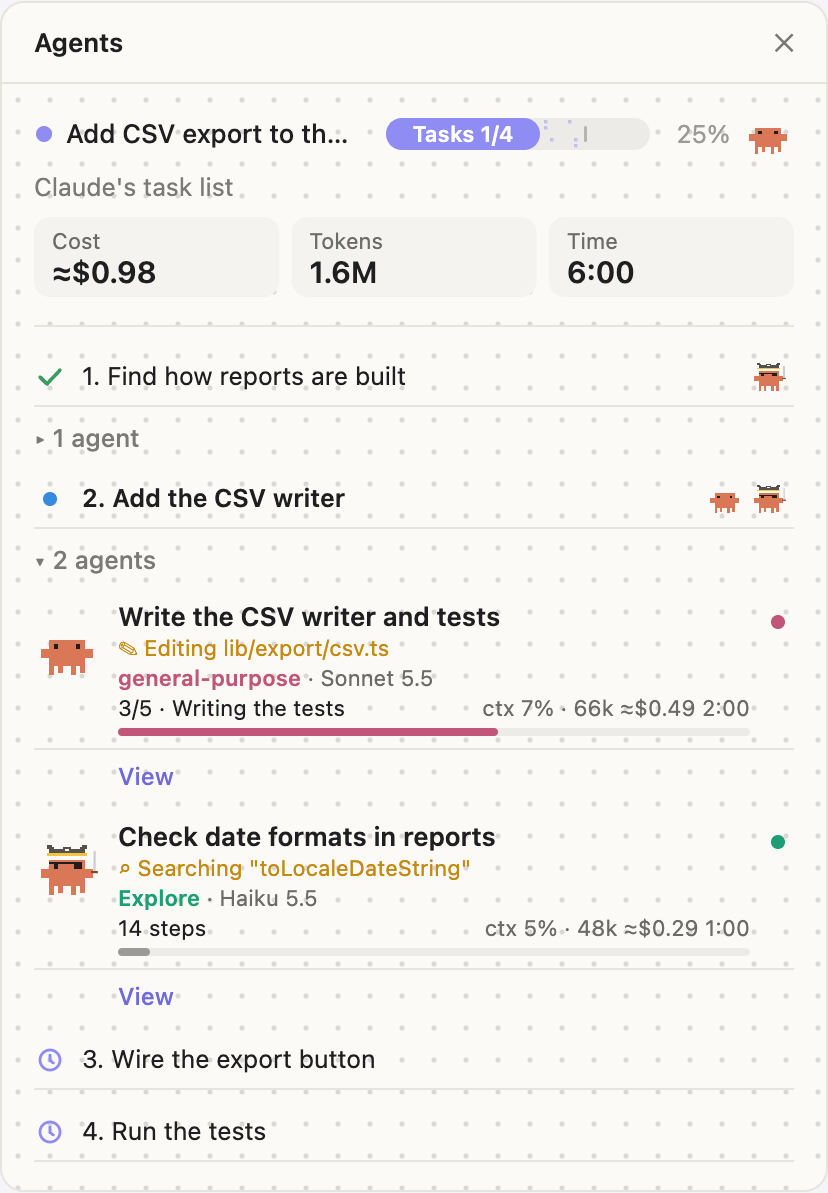
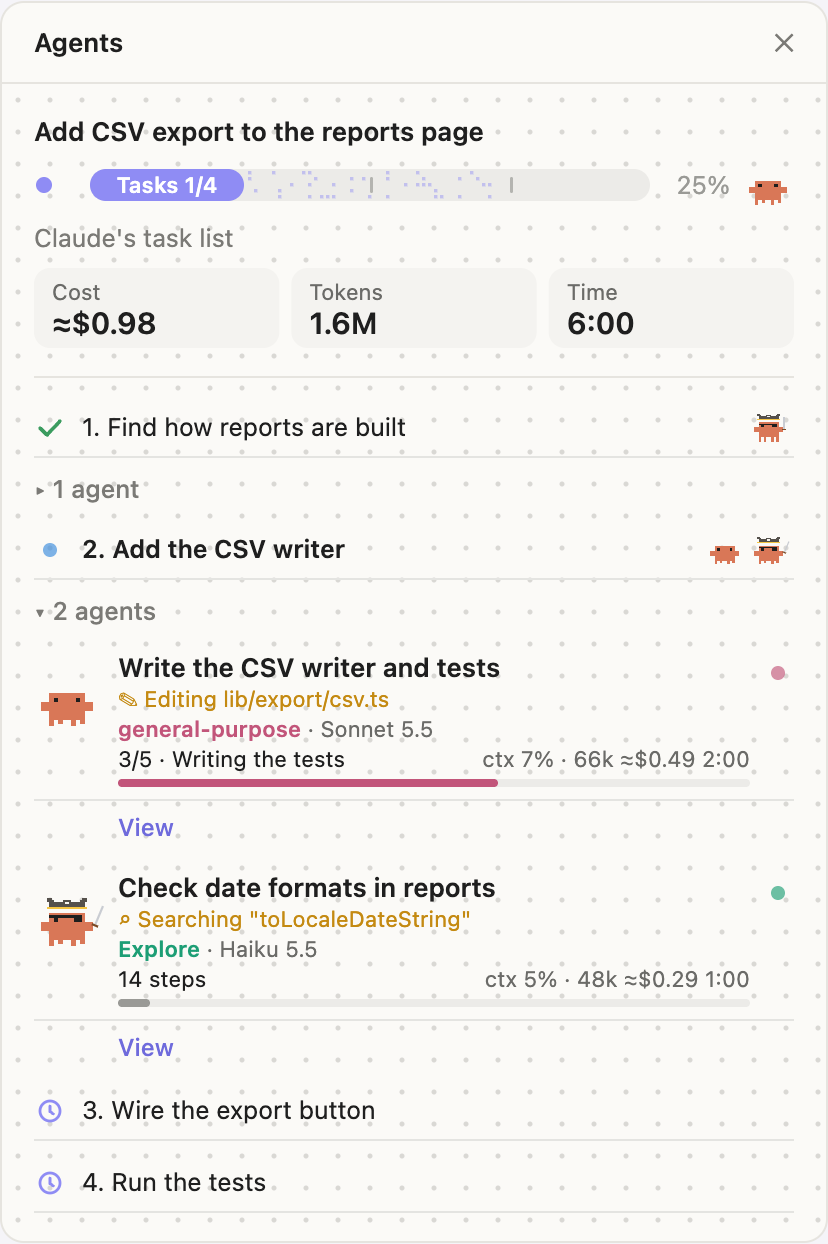
docs: README and screenshots for 0.5.3
A fresh real session for the top image, the desktop images in the new
layout, and the wording for the desktop app, theme colours, options and
agent costs.

diff --git a/README.md b/README.md
@@ -6,7 +6,7 @@
 
 <p align="center">
   <strong>See what every subagent is doing, how far along it is and what it costs.</strong><br>
-  A live side panel and status row for <a href="https://code.claude.com/docs">Claude Code</a>. No setup, no new commands to learn.
+  A live side panel and status row for <a href="https://code.claude.com/docs">Claude Code</a>, in the terminal and the desktop app. No setup, no new commands to learn.
 </p>
 
 <p align="center">
@@ -45,6 +45,8 @@ In Claude Code:
 
 Restart Claude Code to load it. The panel opens by itself the next time a subagent starts. Updates need a restart too.
 
+It runs in the terminal and the desktop app, and has been tested on Claude Code 2.1.312 to 2.1.314. Mods are new, so older versions may not load it.
+
 ## Features
 
 - **What each agent is doing, live.** A line under its name from its latest tool call: `✎ Editing lib/csv.ts`, `⌕ Reading src/auth.ts`, `▶ Running npm test`.
@@ -52,7 +54,7 @@ Restart Claude Code to load it. The panel opens by itself the next time a subage
 - **What it costs.** A running estimate per agent, plus totals for the session.
 - **Your work as a plan.** When Claude keeps a task list, the panel shows your prompt, a `Tasks 1/4` bar and each agent under its task.
 - **One row above the prompt.** Progress, model and effort, git branch, context fill and a prompt-cache countdown with a warning before it expires.
-- **Click to open.** Click an agent to see its transcript in the main view.
+- **Click to open.** Click an agent to see its transcript in the main view (`View` for a running agent on the desktop).
 - **Fits your theme.** Terminal colours follow your Claude Code theme, light or dark.
 - **Works in the background.** It never slows a tool call, and it makes no network calls: everything stays on your machine.
 
@@ -84,7 +86,7 @@ The frame is your theme's text colour at rest, amber with 20 minutes of cache le
 
 <img src="docs/screenshots/everyday-desktop.png" alt="The task-list view in the desktop app, with a pixel crab and a View link for each agent" width="400">
 
-The desktop panel carries the same information, drawn with the crew of pixel crabs.
+The desktop panel carries the same information, drawn with the crew of pixel crabs. The row above the prompt is there too, with small icons for the context and cache.
 
 <sub>The images in this section are drawn by the mod's own code from sample sessions (`bun scripts/preview.ts`).</sub>
 
@@ -97,7 +99,7 @@ The desktop panel carries the same information, drawn with the crew of pixel cra
 
 ## Options
 
-Set these in `/config`, or under `pluginConfigs` in `~/.claude/settings.json`.
+Set these in `/config`, or under `pluginConfigs` in `~/.claude/settings.json`. Both are on until you change them, so you can skip any prompt to set them when installing.
 
 | Option | Default | What it does |
 | --- | --- | --- |
@@ -155,7 +157,7 @@ When a plan is running it takes priority over Claude's task list. Once it's fini
 <details>
 <summary>The panel didn't open</summary>
 
-Claude Code opens the panel by itself only when the terminal is at least 144 columns wide. Use `/crew` to open it at any width. Check that `open_panel` is on, too.
+In the terminal, Claude Code opens the panel by itself only when the window is at least 144 columns wide. Use `/crew` to open it at any width. Check that `open_panel` is on, too.
 
 </details>
 
@@ -188,9 +190,16 @@ Claude Code can only show agents still in its own list. Once an agent has left t
 </details>
 
 <details>
+<summary>The colours don't match the screenshots</summary>
+
+Terminal colours follow your Claude Code theme, so the title and bars can be lavender, blue or something else. The drawn images in this README use one fixed palette.
+
+</details>
+
+<details>
 <summary>The cost doesn't match my bill</summary>
 
-Costs are estimates from token counts at list prices. A model missing from the mod's price table uses a default rate.
+Costs are estimates from token counts at list prices. A model missing from the mod's price table uses a default rate. Starting an agent loads its context, so even one that reads nothing shows a cost.
 
 </details>
 
